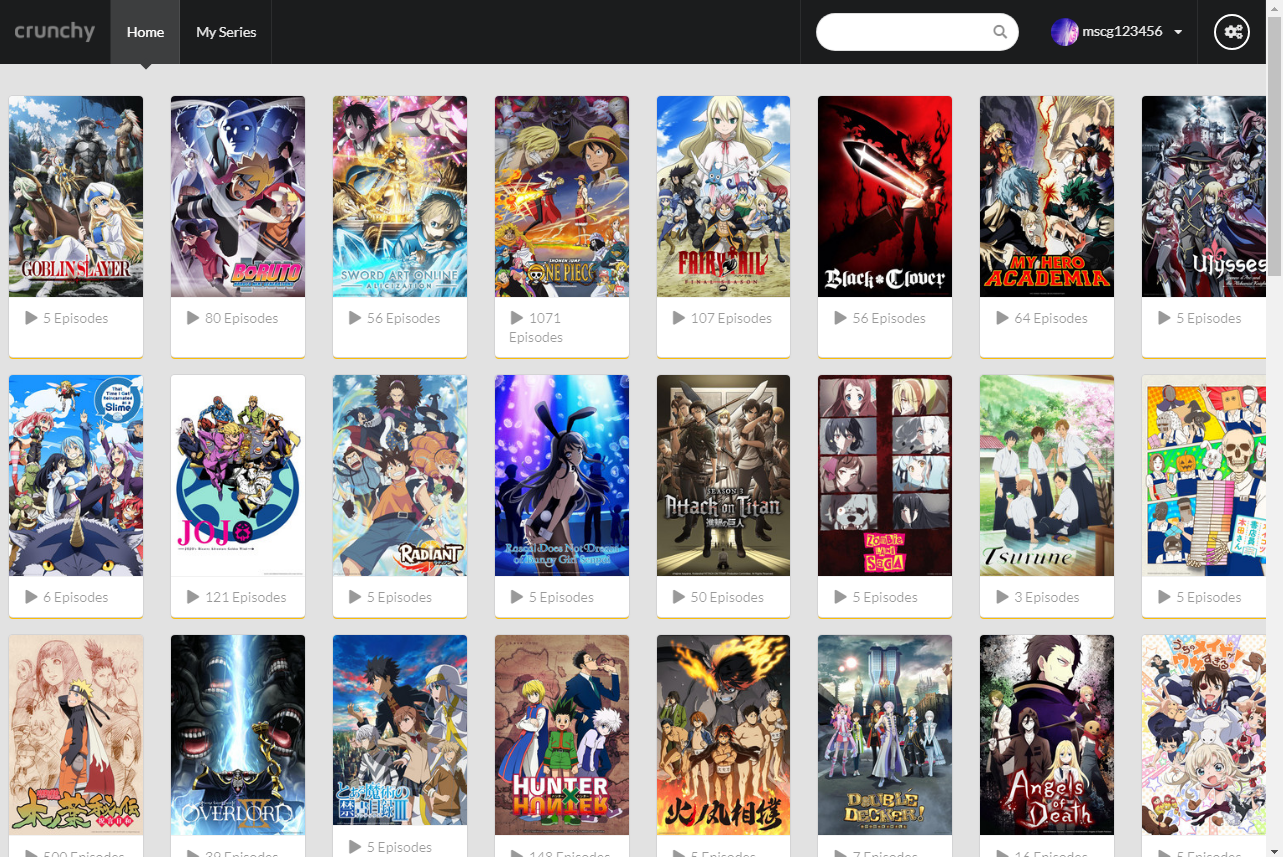
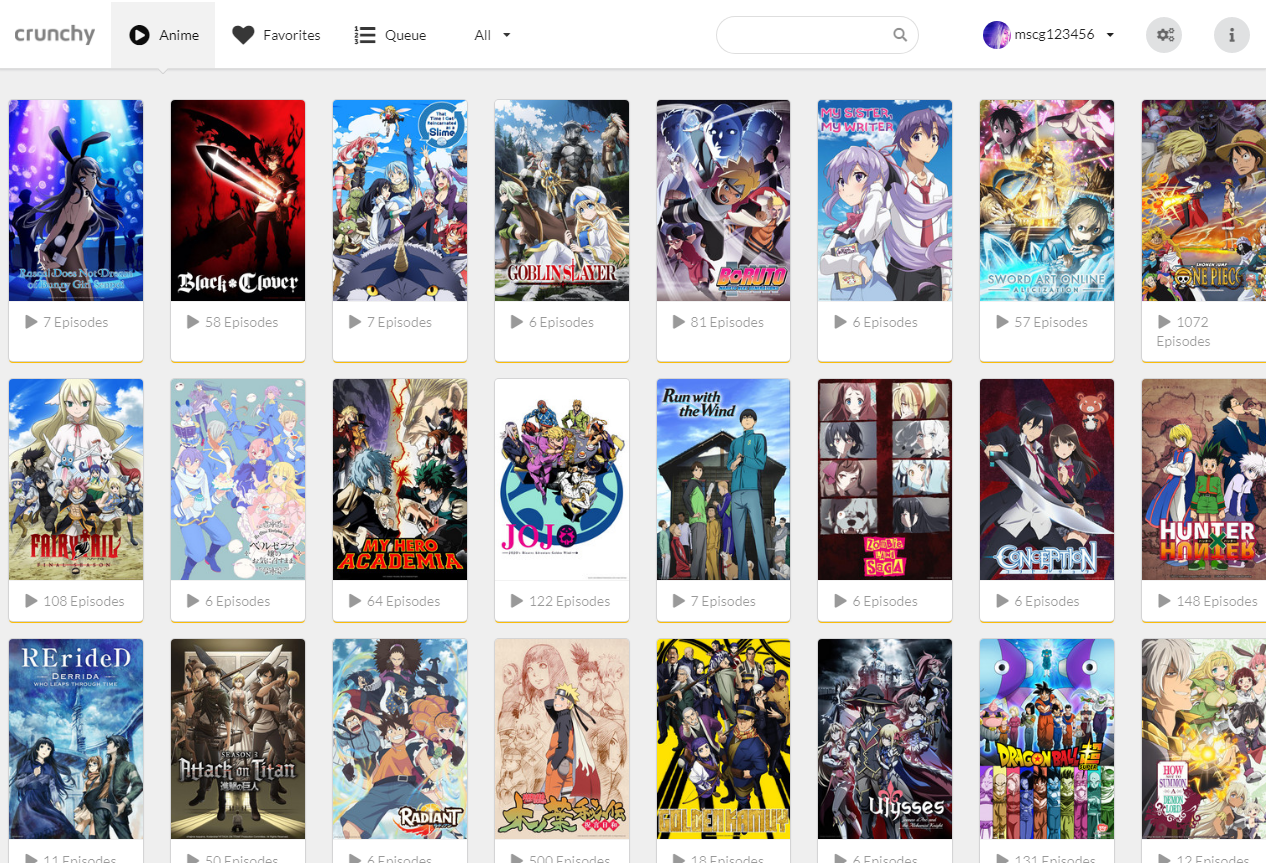
add all genres, fixed bugs in genres, updated screenshots

diff --git a/src/crunchyroll/crunchyroll.js b/src/crunchyroll/crunchyroll.js
@@ -177,57 +177,77 @@ class Crunchyroll {
     return series;
   }
 
-  async getAllSeriesGenre(genre, page) {
+  async getAllSeriesGenre(genre) {
     // wait for auth
     await this.isInited;
 
     // load series by genre
     console.log('Crunchy: Getting ', genre, ' series');
 
-    // get page
-    const url = `${baseURL}/videos/anime/genres/ajax_page?pg=${page}&tagged=${genre}`;
-    const data = await request(url);
-    // create cheerio cursor
-    const $ = cheerio.load(data);
-    // series
-    const series = $('li.group-item')
-      .map((index, el) => {
-        const element = $(el);
-        // get title & url
-        const title = $('a', element).attr('title');
-        const _id = $('a', element).attr('href');
-        const url = `${baseURL}${_id}`;
-        // get image
-        const image = $('img', element).attr('src');
-        // get videos count
-        const seriesData = $('.series-data', element);
-        const count = parseInt(seriesData.text().trim().replace('Videos', '').trim(), 10);
+    let hasMorePages = true;
+    let page = 0;
 
-        // return series data
-        return {
-          _id,
-          source: 'crunchyroll',
-          genre,
-          title,
-          url,
-          image,
-          count,
-        };
-      })
-      .get();
+    // load series while theres more pages
+    while (hasMorePages) {
+      // get page
+      const url = `${baseURL}/videos/anime/genres/ajax_page?pg=${page}&tagged=${genre}`;
+      const data = await request(url);
+      // create cheerio cursor
+      const $ = cheerio.load(data);
+      // series
+      const series = $('li.group-item')
+        .map((index, el) => {
+          const element = $(el);
+          // get title & url
+          const title = $('a', element).attr('title');
+          const _id = $('a', element).attr('href');
+          const url = `${baseURL}${_id}`;
+          // get image
+          const image = $('img', element).attr('src');
+          // get videos count
+          const seriesData = $('.series-data', element);
+          const count = parseInt(seriesData.text().trim().replace('Videos', '').trim(), 10);
 
-    //add to database
-    await db.genres.bulkDocs(series);
-    await db.genres.allDocs({include_docs: true}, function(err, docs) {
-      if (err) {
-        return console.log(err);
+          // return series data
+          return {
+            _id,
+            source: 'crunchyroll',
+            genre,
+            title,
+            url,
+            image,
+            count,
+          };
+        })
+        .get();
+
+      // update genre of series already in db
+      if (series.length > 0) {
+        series.forEach(async serie => {
+          try {
+            await db.genres.get(serie._id).then(async doc => {
+              if (doc.genre != serie.genre) {
+                // update
+                doc.genre = serie.genre;
+                // put them back
+                await db.genres.put(doc);
+              }
+            });
+          } catch (e) {
+            if (e.status === 404) {
+              return;
+            }
+          }
+        });
+
+        // add to database
+        await db.genres.bulkDocs(series);
+
+        page++;
       } else {
-        console.log('db series', docs.rows);
+        hasMorePages = false;
       }
-    });
-    console.log('Series: ', series);
-
-    return series;
+    }
   }
 
   async getEpisodes(series) {
@@ -635,7 +655,7 @@ class Crunchyroll {
     }
 
     //Send request
-    await request(options).then(function(response) {
+    await request(options).then(response => {
       //Log response
       let jsonResponse = response.slice(10);
       jsonResponse = jsonResponse.substring(0, jsonResponse.length - 3);

diff --git a/src/app/genres.js b/src/app/genres.js
@@ -26,12 +26,21 @@ export default class Genres extends React.Component {
 
   init(justMounted) {
     // Load series
-    Crunchyroll.getAllSeriesGenre(this.value, 0);
+    Crunchyroll.getAllSeriesGenre(this.value);
     // starts loading
     this.isLoading = true;
 
+    // comparator to sort series
+    const compare = (a, b) => {
+      if (a.title < b.title) return -1;
+      if (a.title > b.title) return 1;
+      return 0;
+    };
+
     // update series
     if (!justMounted) {
+      this.sub.unsubscribe();
+
       this.sub = Observable.fromEvent(
         db.genres.changes({
           since: 0,
@@ -44,12 +53,20 @@ export default class Genres extends React.Component {
         .map(change => change.doc)
         .filter(doc => doc.genre === this.value)
         .scan((acc, doc) => acc.concat([doc]), [])
+        .map(series => series.sort(compare))
         .debounceTime(1000)
         .subscribe(series => this.setState({series}));
     }
   }
 
   componentDidMount() {
+    // comparator to sort series
+    const compare = (a, b) => {
+      if (a.title < b.title) return -1;
+      if (a.title > b.title) return 1;
+      return 0;
+    };
+
     this.sub = Observable.fromEvent(
       db.genres.changes({
         since: 0,
@@ -62,6 +79,7 @@ export default class Genres extends React.Component {
       .map(change => change.doc)
       .filter(doc => doc.genre === this.value)
       .scan((acc, doc) => acc.concat([doc]), [])
+      .map(series => series.sort(compare))
       .debounceTime(1000)
       .subscribe(series => this.setState({series}));
   }
@@ -71,6 +89,7 @@ export default class Genres extends React.Component {
     if (this.props.location.value != this.value) {
       this.value = this.props.location.value;
 
+      // reset series
       this.setState({
         series: [],
       });
@@ -87,15 +106,13 @@ export default class Genres extends React.Component {
     const {series} = this.state;
     const currentGenre = this.value;
 
-    //if series is ready, ends loading..
+    // if series is ready, ends loading..
     if (series.length > 0) {
       this.isLoading = false;
     }
 
-    console.log('genres', this.state.series);
-
     let home;
-    //Default home screen
+    // Default home screen
     if (!this.isLoading) {
       home = (
         <div>
@@ -111,7 +128,7 @@ export default class Genres extends React.Component {
         </div>
       );
     }
-    //Loading
+    // Loading
     if (this.isLoading) {
       home = (
         <div>

diff --git a/src/components/genresDropdown/index.js b/src/components/genresDropdown/index.js
@@ -7,25 +7,31 @@ export default class GenresComponent extends React.Component {
   constructor(props) {
     super(props);
     this.history = this.props.history;
-    this.value = 'all';
+    this.state = {
+      value: 'all',
+    };
 
     this.handleChange = this.handleChange.bind(this);
   }
 
   async handleChange(e, {value}) {
     // no changes
-    if (this.value == value) {
+    if (this.state.value == value) {
       return;
     } else if (value == 'all') {
       // return to home (all series)
-      this.value = value;
+      this.setState({
+        value: value,
+      });
       const location = {
         pathname: `/`,
       };
       this.history.push(location);
     } else {
       // push new genre
-      this.value = value;
+      this.setState({
+        value: value,
+      });
 
       const location = {
         pathname: `/genre/${value}`,
@@ -36,13 +42,19 @@ export default class GenresComponent extends React.Component {
     }
   }
 
-  render() {
-    const value = this.value;
+  componentDidUpdate() {
+    // reset value to all if returns to home or goes to another page
+    const value = this.state.value;
     const pathname = this.history.location.pathname;
-
-    if (!pathname.includes('/genre/')) {
-      this.value = 'all';
+    if (value != 'all' && !pathname.includes('/genre/')) {
+      this.setState({
+        value: 'all',
+      });
     }
+  }
+
+  render() {
+    const value = this.state.value;
 
     const options = [
       {key: 1, text: 'All', value: 'all'},
@@ -52,6 +64,15 @@ export default class GenresComponent extends React.Component {
       {key: 5, text: 'Drama', value: 'drama'},
       {key: 6, text: 'Ecchi', value: 'ecchi'},
       {key: 7, text: 'Fantasy', value: 'fantasy'},
+      {key: 8, text: 'Historical', value: 'historical'},
+      {key: 9, text: 'Mecha', value: 'mecha'},
+      {key: 10, text: 'Romance', value: 'romance'},
+      {key: 11, text: 'Science Fiction', value: 'science_fiction'},
+      {key: 12, text: 'Seinen', value: 'seinen'},
+      {key: 13, text: 'Shoujo', value: 'shoujo'},
+      {key: 14, text: 'Shounen', value: 'shounen'},
+      {key: 15, text: 'Slice of Life', value: 'slice_of_life'},
+      {key: 16, text: 'Sports', value: 'sports'},
     ];
 
     return (

diff --git a/src/components/navbar/index.js b/src/components/navbar/index.js
@@ -98,8 +98,6 @@ class Navbar extends React.Component {
       this.activeItem = 'Home';
     }
 
-    console.log('path', pathname);
-
     // only show genres dropwdown when on home and searching by genres
     let genresDropdown;
     if (pathname == '/' || pathname.includes('/genre/')) {
@@ -151,7 +149,7 @@ class Navbar extends React.Component {
               <Menu className="Menu" fixed="top" pointing borderless>
                 <Menu.Item>
                   <Image
-                    src="https://lh4.googleusercontent.com/DWksuWhKYx_fXdHnfq3ZwfTqXwEIqeq4qwvyF5SpIdEMBOrn0sRoVXO36fjEoR08nvegf9tna-sH6v4DG3jb=w1919-h937"
+                    src="https://lh5.googleusercontent.com/rg9RG2mMqf16Rr-l7T-2L9nker14HsyzIYDoJtXlS6nUcGQNvPsP-jJp_0NwzS7RUyPjVJ6ttqTbdDPyEPM-=w1919-h937"
                     size="tiny"
                   />
                 </Menu.Item>
@@ -163,7 +161,7 @@ class Navbar extends React.Component {
                   onClick={this.handleActiveItem}
                 >
                   <Icon name="video play" size="large" />
-                  Popular
+                  Anime
                 </Menu.Item>
                 <Menu.Item
                   name="Favorites"

diff --git a/src/app/info.js b/src/app/info.js
@@ -20,6 +20,12 @@ export default class Settings extends React.Component {
             </Button>
           </Link>
           <Divider horizontal><Header as="h1">Info</Header></Divider>
+          <Header as="h4">
+            Desktop Electron based app for video streaming from Crunchyroll!
+          </Header>
+          <Header as="h4">
+            This is currently my project to learn Javascript and some of web-development, at the same time creat something usefull (at leat for me).
+          </Header>
         </div>
       </div>
     );
